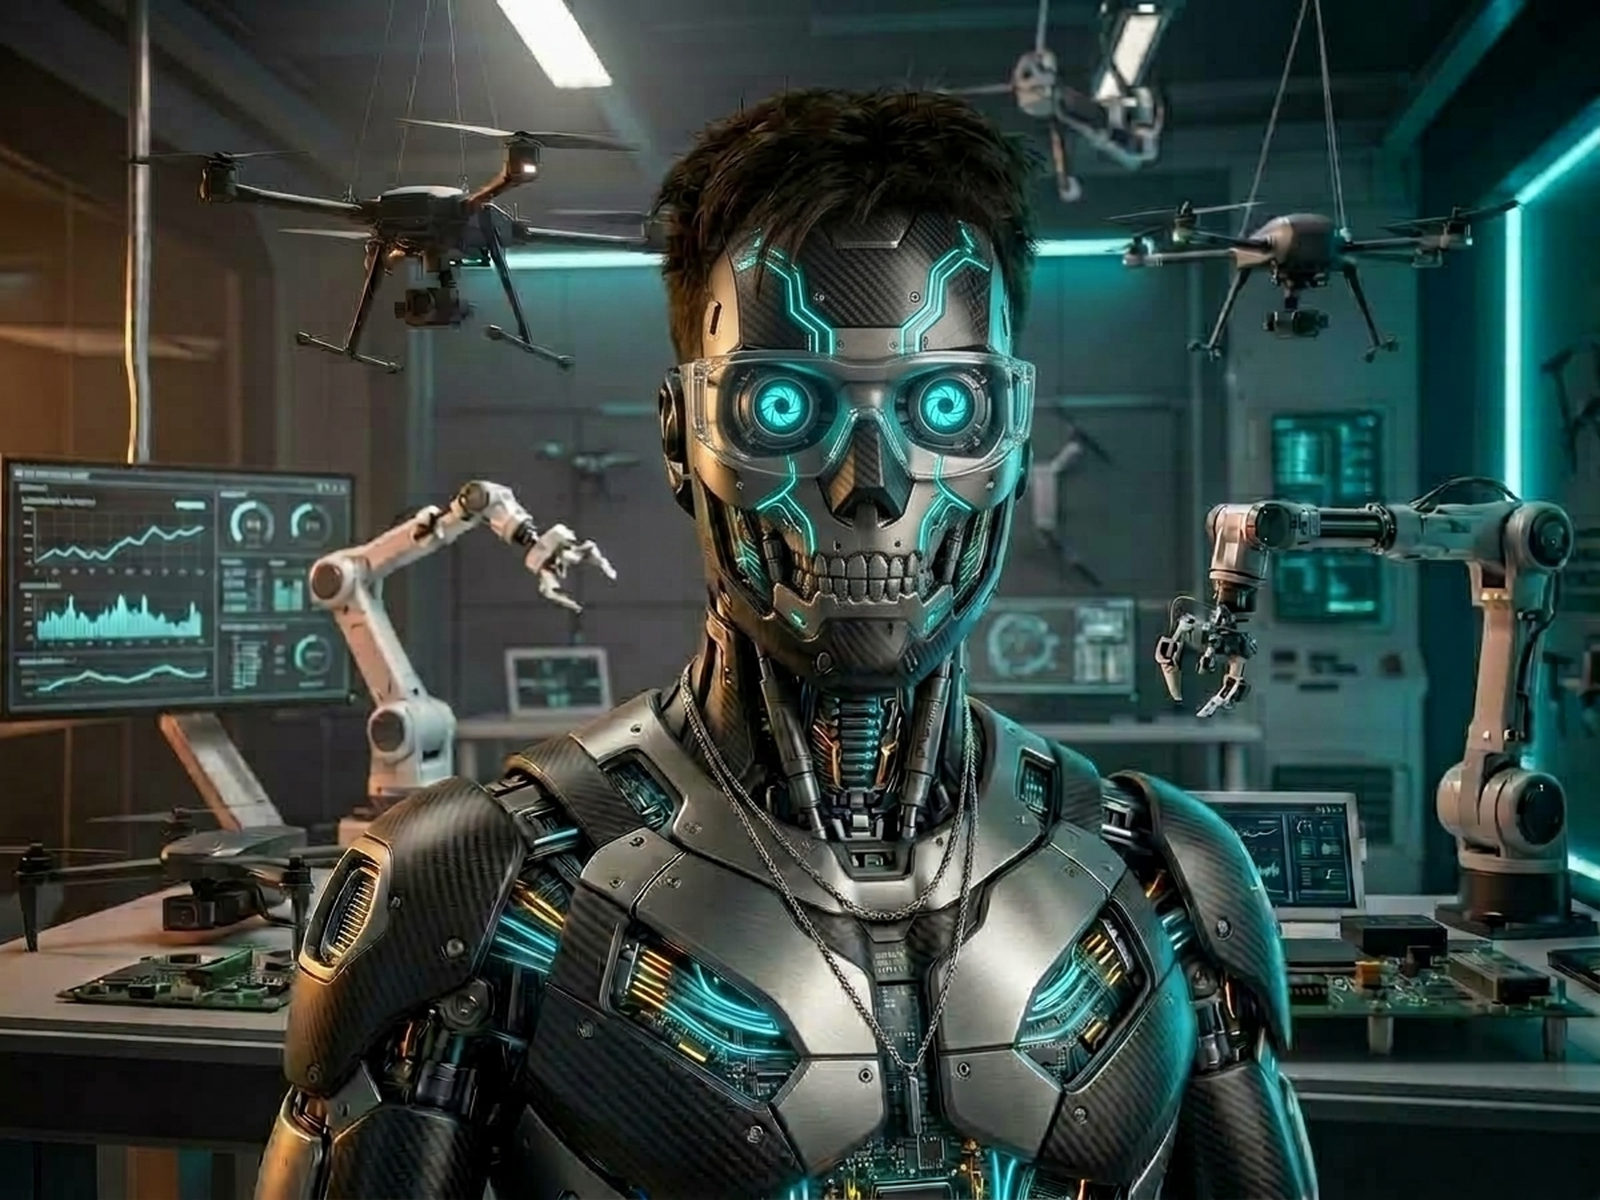
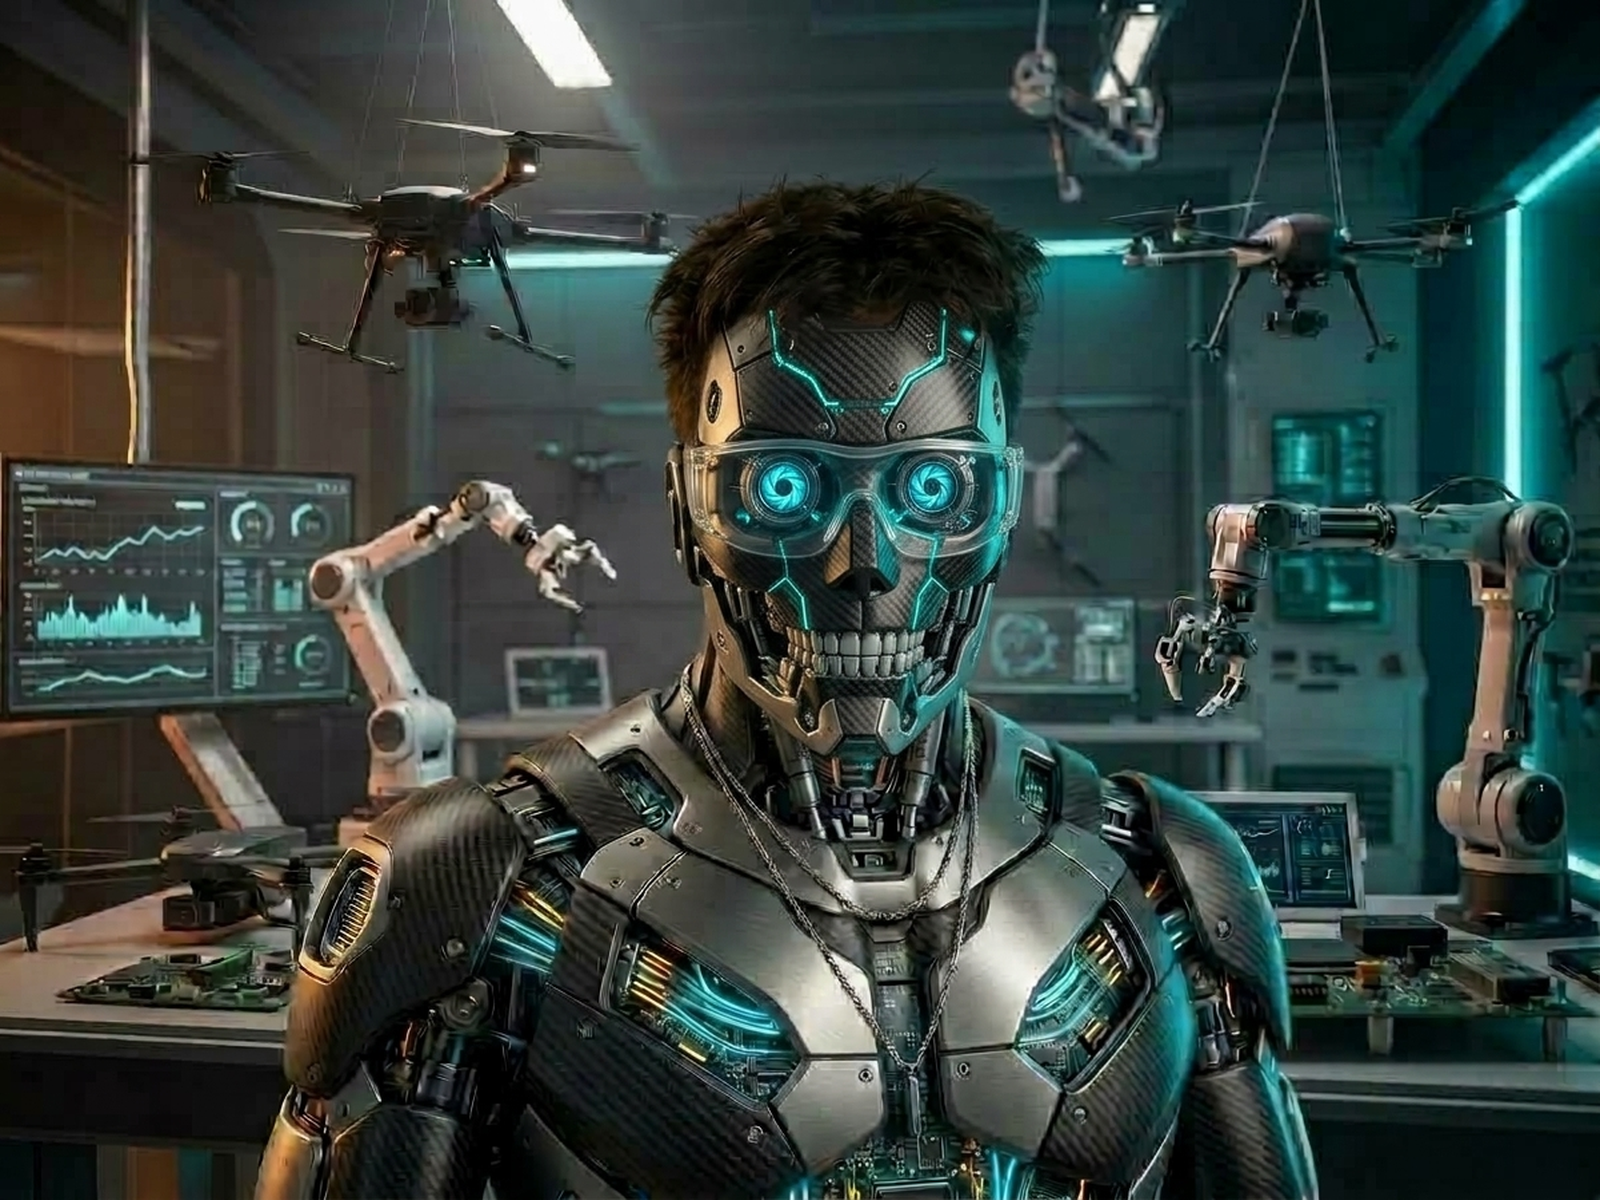
perf: eliminate startup freeze with zero-overhead initial boot and preserve 100% hair headroom

diff --git a/index.html b/index.html
@@ -247,12 +247,13 @@
         </div>
       </div>
 
-      <!-- LAYER 3: 02 HİKAYEM (ORIGINAL 3D MENG-TO SKETCHBOOK) -->
+      <!-- LAYER 3: 02 HİKAYEM (ORIGINAL 3D MENG-TO SKETCHBOOK - Lazy loaded for instant initial page speed) -->
       <div class="flow-layer flow-story-layer" id="flowStoryLayer">
         <iframe
           id="sketchbook-interactive-frame"
           class="flow-iframe"
-          src="/landing-pages/meng-to-sketchbook.html"
+          data-src="/landing-pages/meng-to-sketchbook.html"
+          src="about:blank"
           title="Ozan Arda Özçelik — 02 Hikayem (3D Dokunsal Eskiz Defteri)"
           sandbox="allow-downloads allow-forms allow-modals allow-popups allow-same-origin allow-scripts"
           loading="lazy"
@@ -840,6 +841,16 @@
         autoScrollAnimId = requestAnimationFrame(step);
       }
 
+      let storyLoaded = false;
+      function ensureStoryLoaded() {
+        if (storyLoaded || !sbIframe) return;
+        const dSrc = sbIframe.getAttribute('data-src');
+        if (dSrc && (!sbIframe.src || sbIframe.src === 'about:blank' || !sbIframe.src.includes('meng-to-sketchbook'))) {
+          sbIframe.src = dSrc;
+          storyLoaded = true;
+        }
+      }
+
       let isShelfActive = false;
       let shelfLoaded = false;
 
@@ -863,10 +874,16 @@
         }
       }
 
-      // Preload shelf early in the background so it's ready with zero WebGL compile lag
-      setTimeout(() => {
-        ensureShelfLoaded();
-      }, 1200);
+      // Preload story iframe when flowContainer is near viewport
+      if (flowContainer && 'IntersectionObserver' in window) {
+        const flowObserver = new IntersectionObserver((entries) => {
+          if (entries[0].isIntersecting) {
+            flowObserver.disconnect();
+            ensureStoryLoaded();
+          }
+        }, { rootMargin: '300px' });
+        flowObserver.observe(flowContainer);
+      }
 
       // Scroll Handler with Generous Dedicated Reading Buffer & Cinematic Pacing
       let lastRenderedP = -999;
@@ -890,8 +907,13 @@
         }
         lastRenderedP = p;
 
-        // Ensure shelf is loaded
-        if (p > 0.05) {
+        // Lazy load story when scrolling towards Section 02
+        if (scrollY > 50 || p > 0.00) {
+          ensureStoryLoaded();
+        }
+
+        // Lazy load shelf when user approaches folding
+        if (p > 0.15) {
           ensureShelfLoaded();
         }
 
@@ -1006,6 +1028,7 @@
         customSmoothScrollTo(0, 1500);
       }
       function scrollToStory() {
+        ensureStoryLoaded();
         const { storyY } = getSnapTargets();
         customSmoothScrollTo(storyY, 1600, () => {
           setTimeout(triggerStoryRiffle, 100);

diff --git a/shaders.js b/shaders.js
@@ -49,8 +49,10 @@ export const displayFragmentShader = `
     vec2 s = uResolution / ts;
     float scale = max(s.x, s.y);
     vec2 scaled = ts * scale;
-    vec2 offset = (uResolution - scaled) * 0.5;
-    return (uv * uResolution - offset) / scaled;
+    // Align horizontally center, and vertically anchor towards top (0.12) to ensure hair & headroom are 100% visible
+    float offsetX = (uResolution.x - scaled.x) * 0.5;
+    float offsetY = (uResolution.y - scaled.y) * 0.12;
+    return (uv * uResolution - vec2(offsetX, offsetY)) / scaled;
   }
 
   void main() {
